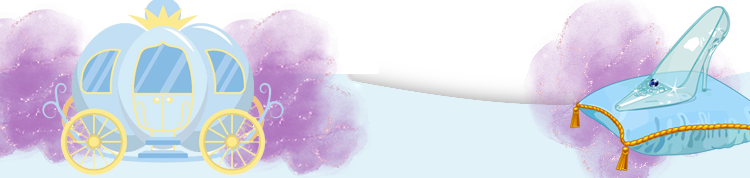
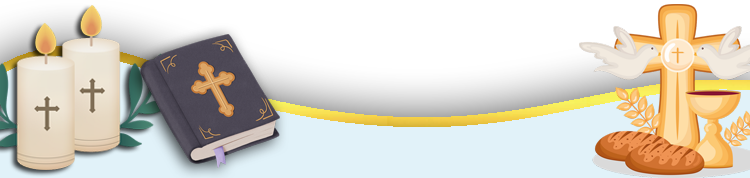
chgs

diff --git a/index.html b/index.html
@@ -39,7 +39,7 @@
       </div>
       <!-- END PRELOADER AREA -->
       <!-- Modal musica fondo -->
-      <div id="modalMusica" class="modal fade" tabindex="-1">
+      <div id="modalMusica" class="modal fade" tabindex="-1"  style="background-color: antiquewhite;">
         <div class="modal-dialog modal-lg modal-dialog-centered">
             <div class="modal-content">
                 <div class="modal-body text-center">
@@ -110,12 +110,14 @@
                            <h1>
                               Thiago            
                            </h1>
-                           <h2 style="font-family: 'Cookie', cursive; font-size: 45px;">Mis 15 años</h2>
+                           <h2 style="font-family: 'Cookie', cursive; font-size: 45px;">Mi Primera Comunión</h2>
                         </div>
                         <div class="box-frase-portada">
                            <p >
                               <img src="img/comilla-apertura.svg" alt=""> <br>
-                              Hace 15 años hemos esperado esta fecha tan especial en la que inicia una nueva y hermosa etapa en mi vida, llena de bendiciones, sueños, ilusiones y nuevas experiencias, mi juventud, la cual recibiré en compañía de Dios, mis padres, hermanos, familiares y amigos más sinceros. Tú estás entre ellos y es por eso que, antes de que marquen las doce, viviremos juntos una noche mágica e inolvidable. <br>
+                              Jesús mio,
+que hoy vienes a mi por primera vez, ilumina mi alma con la luz de la fe y haz que el recuerdo de este hermoso dia perdure siempre en mi.
+Amén. <br>
                               <img src="img/comilla-cierre.svg" alt="">
                            </p>
                           
@@ -198,7 +200,7 @@
                         <span class="start">2025-03-01 19:31:57</span>
                         <span class="end">2025-03-01 19:31:57</span>
                         <span class="timezone">America/Bogota</span>
-                        <span class="title">Thiago ::: Mis 15 años :::  (Fiesta)</span>
+                        <span class="title">Thiago ::: Mi Primera Comunión :::  (Fiesta)</span>
                         </a>
                      </div>
                      <div class="info-box">
@@ -444,7 +446,7 @@
                      <h4>
                         Florencia          
                      </h4>
-                     <h5>Mis 15 años</h5>
+                     <h5>Mi Primera Comunión</h5>
                   </div>
                </div>
                <div class="col-md-6 col-acciones-footer d-flex justify-content-center align-items-center">
@@ -464,7 +466,7 @@
                            <span class="start">2025-02-17 14:31:57</span>
                            <span class="end">2025-02-17 14:31:57</span>
                            <span class="timezone">America/Bogota</span>
-                           <span class="title">Florencia ::: Mis 15 años :::  (Fiesta)</span>
+                           <span class="title">Florencia ::: Mi Primera Comunión :::  (Fiesta)</span>
                         </div>
                      </li>
                      <li>
@@ -473,7 +475,7 @@
                            <span class="start">2025-02-17 14:31:57</span>
                            <span class="end">2025-02-17 14:31:57</span>
                            <span class="timezone">America/Bogota</span>
-                           <span class="title">Florencia ::: Mis 15 años :::  ()</span>
+                           <span class="title">Florencia ::: Mi Primera Comunión :::  ()</span>
                         </div>
                      </li>
                   </ul>
@@ -849,7 +851,7 @@
          
          
            // Cuenta regresiva
-           var fechaCuentaRegresiva = "03/01/2025 19:00:57";
+           var fechaCuentaRegresiva = "09/20/2025 18:30:00";
          
            // Mapas
            var latitudFiesta = 4.6709882;
